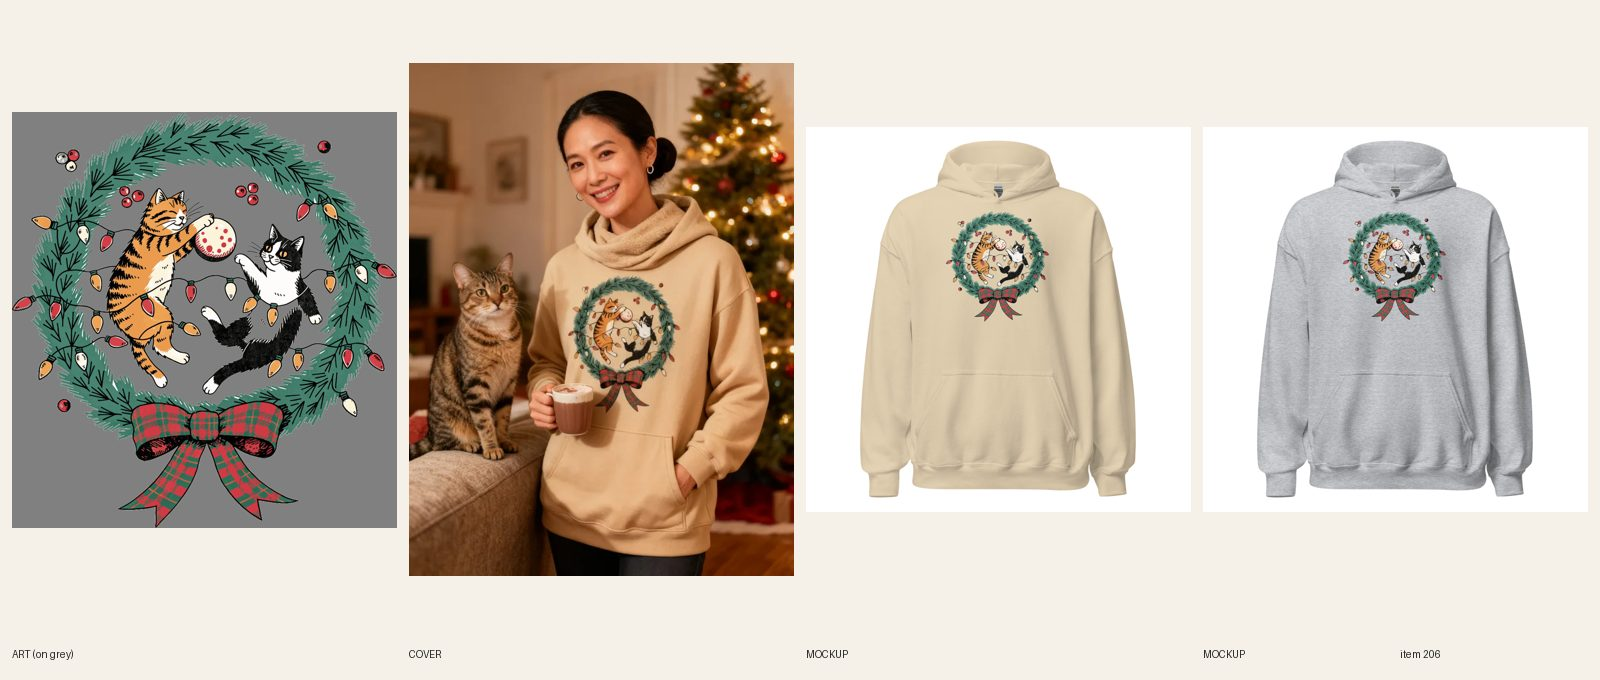
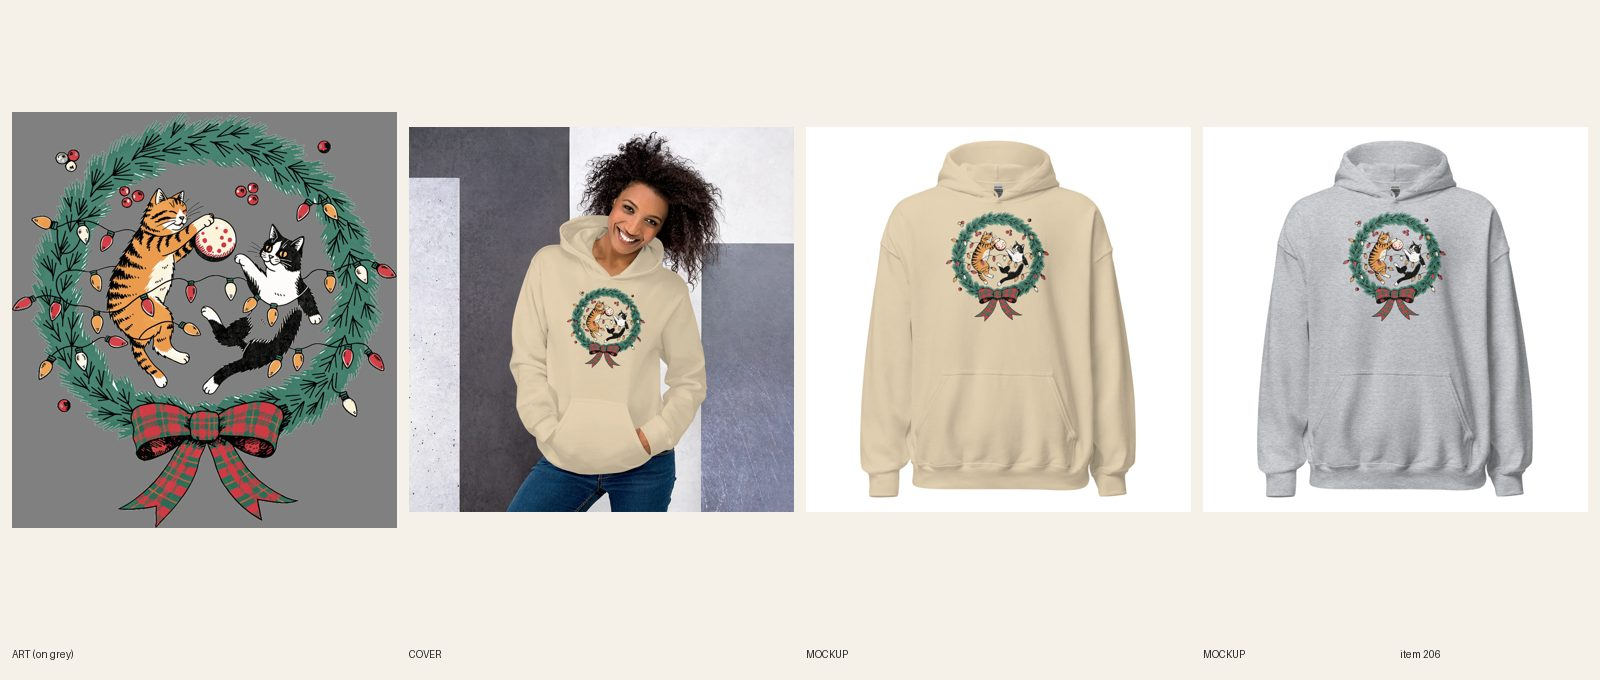
[A] review 206 Christmas Cats hoodie (temp cover)
Claude-Session: https://claude.ai/code/session_01Nu4j19ziyBFmne5NXpYrzC

Changed region(s): [[0.25, 0.0926, 0.5, 0.8647]]

diff --git a/src/data/covers.ts b/src/data/covers.ts
@@ -206,7 +206,7 @@ export const covers: Record<string, { src: string; alt: string }> = {
   'womens-christmas-cardinal-christmas-hoodie': { src: '/covers/womens-christmas-cardinal-christmas-hoodie.webp', alt: 'Woman with a silver curly bob smiling in a sunny kitchen by a window with a snowy bird feeder outside, wearing the sand Cardinal Christmas hoodie' },
   'womens-christmas-winter-woods-fox-hoodie': { src: '/covers/womens-christmas-winter-woods-fox-hoodie.webp', alt: 'Woman with long straight black hair smiling on a snowy pine forest trail at golden hour, holding a thermos and wearing the navy Winter Woods Fox hoodie' },
   'unisex-christmas-north-woods-moose-hoodie': { src: '/covers/unisex-christmas-north-woods-moose-hoodie.webp', alt: 'Man and woman standing together in navy hoodies printed with a bull moose and a log cabin under NORTH WOODS CHRISTMAS lettering, smiling' },
-  'womens-christmas-christmas-cats-hoodie': { src: '/covers/womens-christmas-christmas-cats-hoodie.webp', alt: 'Woman with a sleek low bun smiling in a cozy living room beside a lit tree with a tabby cat on the sofa arm, holding cocoa and wearing the sand Christmas Cats hoodie' },
+  'womens-christmas-christmas-cats-hoodie': { src: '/covers/womens-christmas-christmas-cats-hoodie.webp', alt: 'Smiling woman with curly hair, hands in the pocket, wearing the sand Christmas Cats hoodie with the hood down' },
   'womens-christmas-vintage-snowman-hoodie': { src: '/covers/womens-christmas-vintage-snowman-hoodie.webp', alt: 'Woman with voluminous dark curls and red lipstick smiling on a snowy small-town main street at dusk with wreaths on the lampposts, wearing the navy Vintage Snowman hoodie' },
   'womens-christmas-golf-hoodie': { src: '/covers/womens-christmas-golf-hoodie.webp', alt: 'Woman in her late 40s with a silver-blonde bob in a navy Christmas Golf hoodie on a frosty clubhouse porch with a golf bag and wreath' },
   'unisex-christmas-mountain-christmas-bear-hoodie': { src: '/covers/unisex-christmas-mountain-christmas-bear-hoodie.webp', alt: 'Man and woman in matching navy Mountain Christmas bear hoodies on a snowy cabin porch with a wreath' },

diff --git a/scripts/pf-lifestyle.py b/scripts/pf-lifestyle.py
@@ -1,0 +1,33 @@
+#!/usr/bin/env python3
+"""pf-lifestyle.py <catalog_product_id> <variant_id> <front_url> <w> <h> <out_prefix> <style_id,...>
+Printful v2 mockup task with lifestyle style ids (list: GET /v2/catalog-products/<id>/mockup-styles); front art 10in-wide
+(FW px at 150 dpi, env FW/TOP like pf-mockup.py), saves <out_prefix>_<style>.jpg for each style. No secrets printed."""
+import os, sys, json, time, urllib.request, urllib.error
+T = os.environ['PRINTFUL_TOKEN']
+def call(m, p, b=None):
+    for _ in range(10):
+        try:
+            return json.load(urllib.request.urlopen(urllib.request.Request('https://api.printful.com' + p, method=m, data=json.dumps(b).encode() if b else None,
+                headers={'Authorization': 'Bearer ' + T, 'Content-Type': 'application/json', 'User-Agent': 'gtc'}), timeout=60))
+        except urllib.error.HTTPError as e:
+            if e.code == 429: time.sleep(int(e.headers.get('Retry-After', 30)) + 2); continue
+            raise Exception(f'{e.code} {e.read()[:400]}')
+cat, vid, fu, w, h, out, styles = sys.argv[1:8]; w, h = int(w), int(h)
+pf = call('GET', f'/mockup-generator/printfiles/{cat}')['result']
+vp = next(x for x in pf['variant_printfiles'] if x['variant_id'] == int(vid))['placements']['front']
+a = next(x for x in pf['printfiles'] if x['printfile_id'] == vp)
+fw = min(a['width'], int(os.environ.get('FW', 1500))); fh = fw * h / w
+pos = {'width': round(fw / 150, 3), 'height': round(fh / 150, 3), 'top': int(os.environ.get('TOP', 0)) / 150, 'left': round((a['width'] - fw) / 2 / 150, 3)}
+body = {'format': 'jpg', 'products': [{'source': 'catalog', 'catalog_product_id': int(cat), 'catalog_variant_ids': [int(vid)],
+        'mockup_style_ids': [int(s) for s in styles.split(',')],
+        'placements': [{'placement': 'front', 'technique': 'dtg', 'layers': [{'type': 'file', 'url': fu, 'position': pos}]}]}]}
+t = call('POST', '/v2/mockup-tasks', body)['data']
+tid = t[0]['id'] if isinstance(t, list) else t['id']
+while True:
+    time.sleep(6)
+    r = call('GET', f'/v2/mockup-tasks?id={tid}')['data'][0]
+    if r['status'] == 'completed': break
+    if r['status'] == 'failed': sys.exit('failed ' + json.dumps(r)[:500])
+for p in r['catalog_variant_mockups']:
+    for m in p['mockups']:
+        fn = f"{out}_{m['style_id']}.jpg"; open(fn, 'wb').write(urllib.request.urlopen(urllib.request.Request(m['mockup_url'], headers={'User-Agent': 'gtc'})).read()); print(fn, m.get('display_name'))

diff --git a/docs/intake-log.md b/docs/intake-log.md
@@ -1,4 +1,5 @@
 RUNNING lane A since 2026-10-17 03:58 UTC
+2026-10-17 04:01 UTC — [A] Builder (temp-cover mode): #206 Christmas Cats hoodie cover swapped to Printful Women's Lifestyle mockup (style 1421, cover: temp, self-grade keep) → REVIEW. New scripts/pf-lifestyle.py (Printful v2 lifestyle mockups by style id; no fal).
 2026-10-17 03:43 UTC — [H] Helper run: Telegram inbox empty (getUpdates returned nothing, nothing to consume). Audit (277 products): 0 errors, 8 warnings left alone (polish). Category backfill (one-time rule, still checking): 7 products had no category, set in one batch, all clean: 7 hoodies (aa-1-13-13: Christian Fishers of Men, Lunges and Lattes, Pace: Leisurely, Cowboy Up. Later., Retro Loose Goose oversized, Catch and Release, Deadlift Skeleton oversized). Site freshness: womens-retro-loose-goose-oversized-hoodie, mens-western-cowboy-up-later-hoodie, unisex-running-pace-leisurely-hoodie all return 200. Stuck check: none (lane A last commit 03:30 UTC, lane B 03:27 UTC; no stale lane lock). Announcement bar already shows the holiday line (R12.4), no change. Daily summary not due (next after 12:00 UTC). Lock released.
 2026-10-17 03:30 UTC — [A] Builder stop: fal.ai balance exhausted (Recraft/Seedream/hosting return 403), so the 24 REDO items (203-258 lane A) and READY 273-284/318/319 can't be built. This run built #258-#260 and moved every synced item to REVIEW (#210, #213-#221, #236-#260). Lock released.
 2026-10-17 03:24 UTC — [D] Director run 15: 17 REVIEW items. LIVE (ACTIVE + Online Store + Headless + Google, audit --handle PASS 0 warn): #253/#254 Cute But Corny tee + crewneck, #259 Kids Table Alumni, #293 Full Draw Zero Deer, #299 Ducks in a Row, #302 Antler Envy camo hoodies, #309 Plot Twist cropped, #311 Lunges & Lattes, #312 Pace: Leisurely, #313 Cowboy Up. Later., #314 Loose Goose oversized (11). Copy fixes: #293/#299 claimed arched lettering that is straight; #302 buck pose and a 'biggest rack' line (R3.7.3). REDO: #255/#256 Technically a Vegetable (joke caption faint, R3.7.6/R5.3.2), #257/#258 Wishbone Champion (typeset caption), #294 Doe-Eyed (print reads DOE-WED at phone size; re-letter that line), #310 Fishers of Men (straight canvas cuts at the scene edges, tiny verse). New collections: graphic-hoodies-for-men (graphic hoodie men 27,100/KD 9; 38 live hoodies tagged; rule in R7.5) and funny-christmas-shirts (R9.11, 11 tees tagged). Christmas FAQs rewritten (R8.7); fixed 'no funny Christmas shirts' and the old return answer; metas now say $24.99. Best refs: +253, +312. Queue: lane A 14 READY, lane B 13 READY (new #323-#330: capybara 8,100/16, snowboard 9,900/20, welder 1,900/19, bee 1,300/20, dachshund 1,900/26, wolf 6,600/26, dinosaur 3,600/28, surf 5,400/32). Registry #508-518 reserved. Inbox: voice note closed (helper already asked to resend). Telegram: 1 ping. Lock released.

diff --git a/docs/pipeline/206-christmas-hoodie-christmas-cats.md b/docs/pipeline/206-christmas-hoodie-christmas-cats.md
@@ -1,6 +1,7 @@
-status: REDO
+status: REVIEW
 lane: A
 type: twin
+cover: temp
 id: 206
 handle: womens-christmas-christmas-cats-hoodie
 ---
@@ -22,3 +23,4 @@ handle: womens-christmas-christmas-cats-hoodie
 - 2026-10-16 22:54 UTC builder [A]: Printful sync complete; REVIEW.
 - 2026-10-16 23:19 UTC director: REDO (product stays DRAFT). Notes:
   1. R6.9 hoodie covers: the hood has a cream sherpa/lined look (the 18500 has a plain double-lined hood), the mug sits at the lower-left edge of the wreath, and the hoodie reads tan, not Sand. Art, copy and price are fine. One new cover: product's Sand mockup as --design, hands empty, no mug; the real cat can stay beside her.
+- 2026-10-17 04:00 UTC builder [A]: TEMP COVER (fal empty, no fal calls): Printful v2 mockup style 1421 (Women's Lifestyle, Sand 18500, print fully visible, hood visible, hands in pocket, woman) saved as public/covers/womens-christmas-christmas-cats-hoodie.webp, covers.ts alt updated. Art/copy/price untouched per director. Sheet docs/review/206.jpg. Self-grade: keep. REVIEW.
